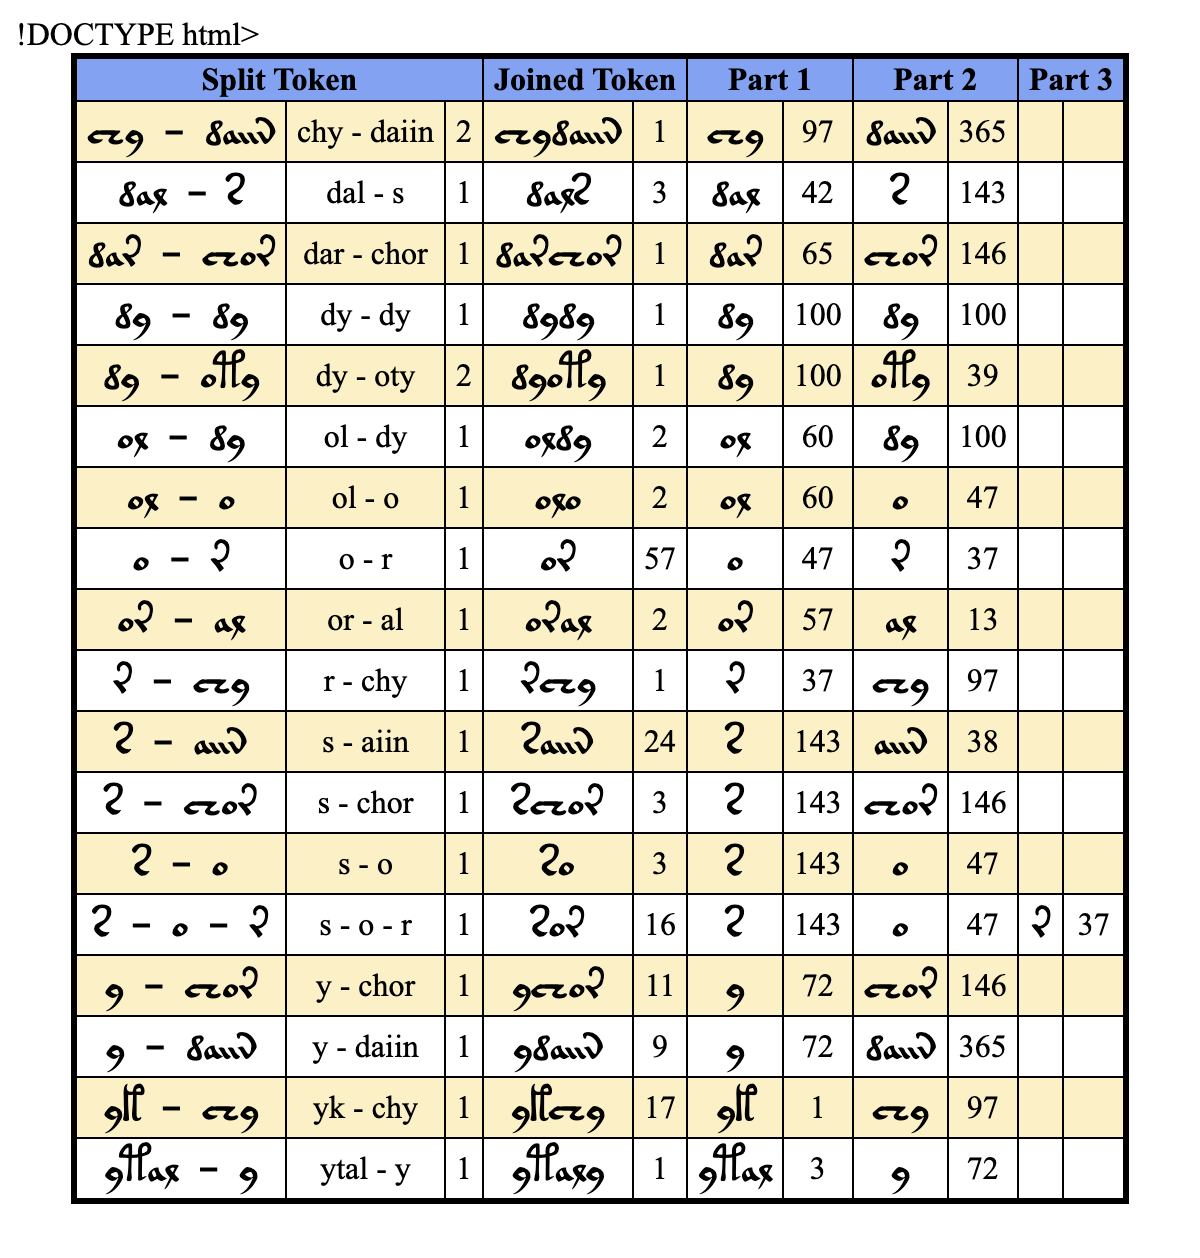
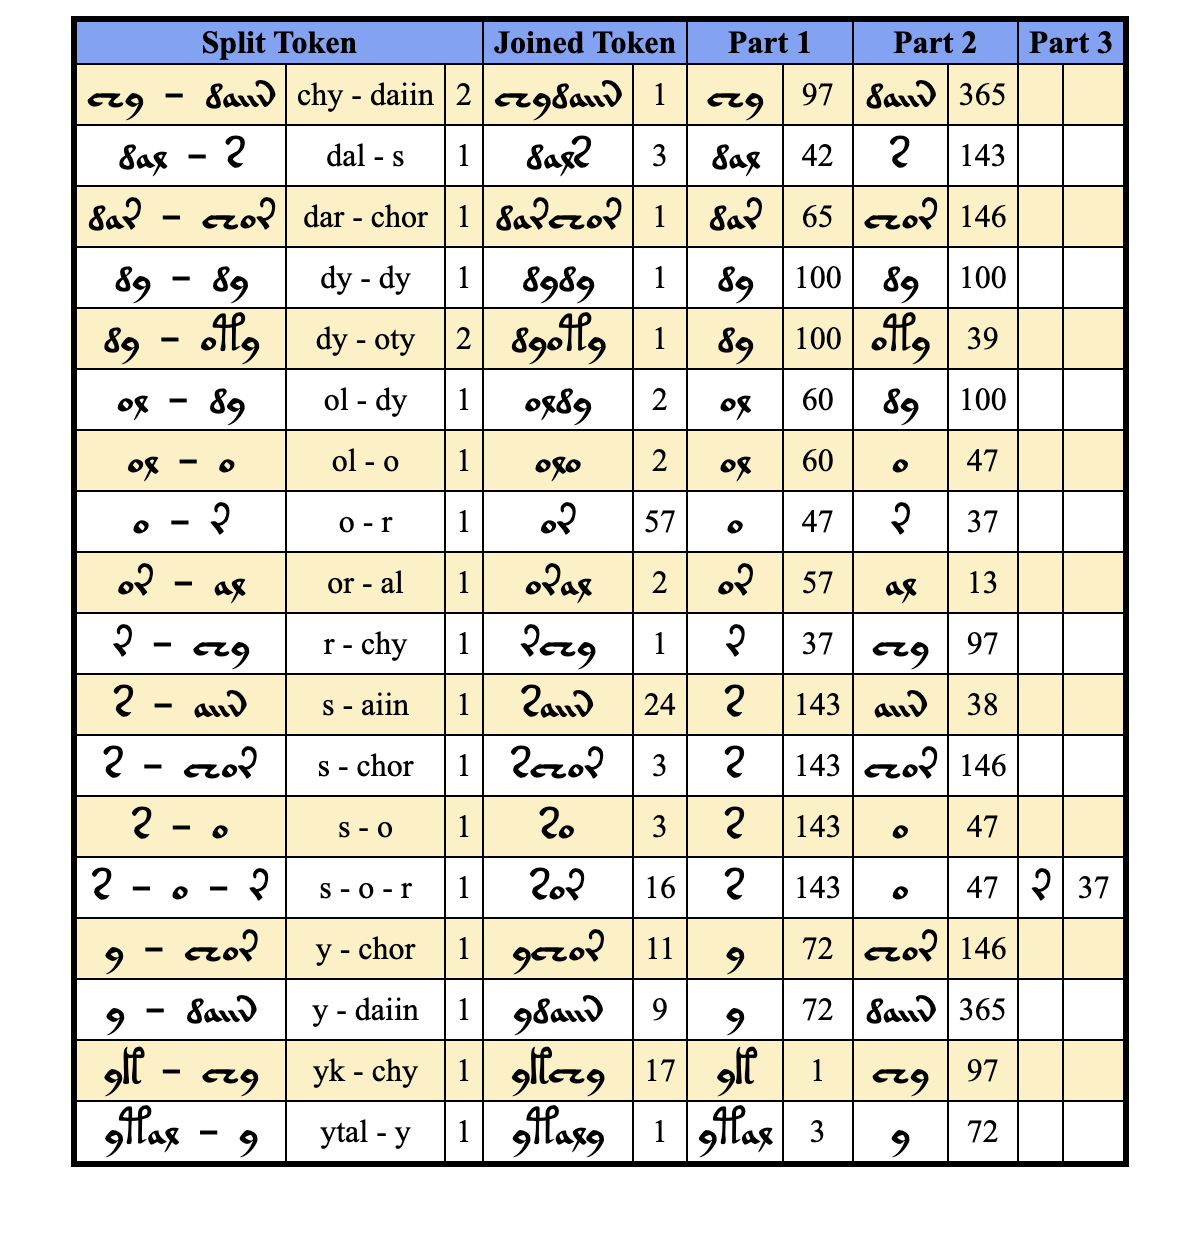
updates

diff --git a/voynich_data/outputs/T_Split_Tokens_Table.html b/voynich_data/outputs/T_Split_Tokens_Table.html
@@ -1,5 +1,5 @@
 
-!DOCTYPE html>
+<!DOCTYPE html>
 
 <html>
 <head>
